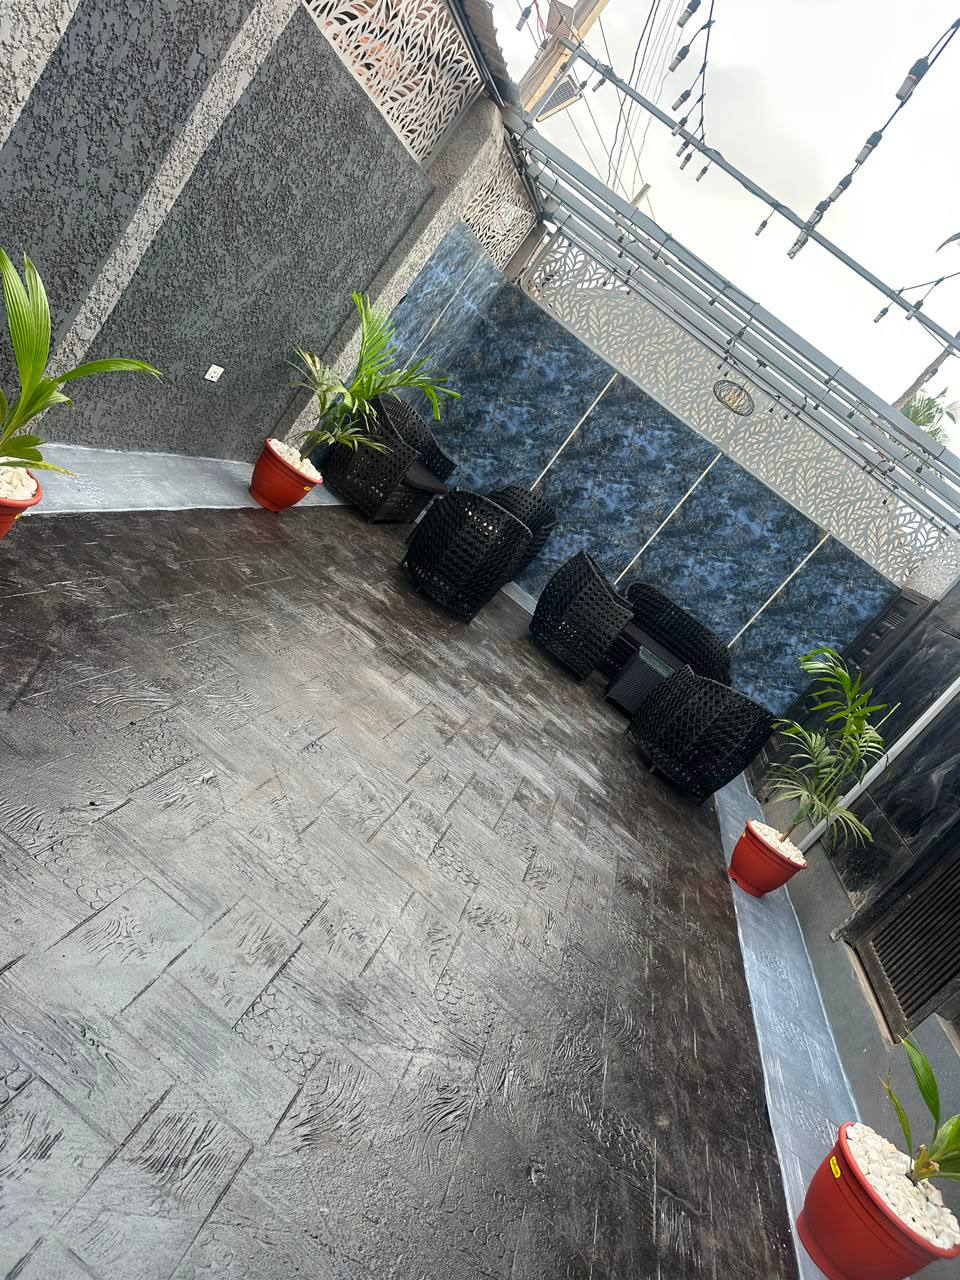
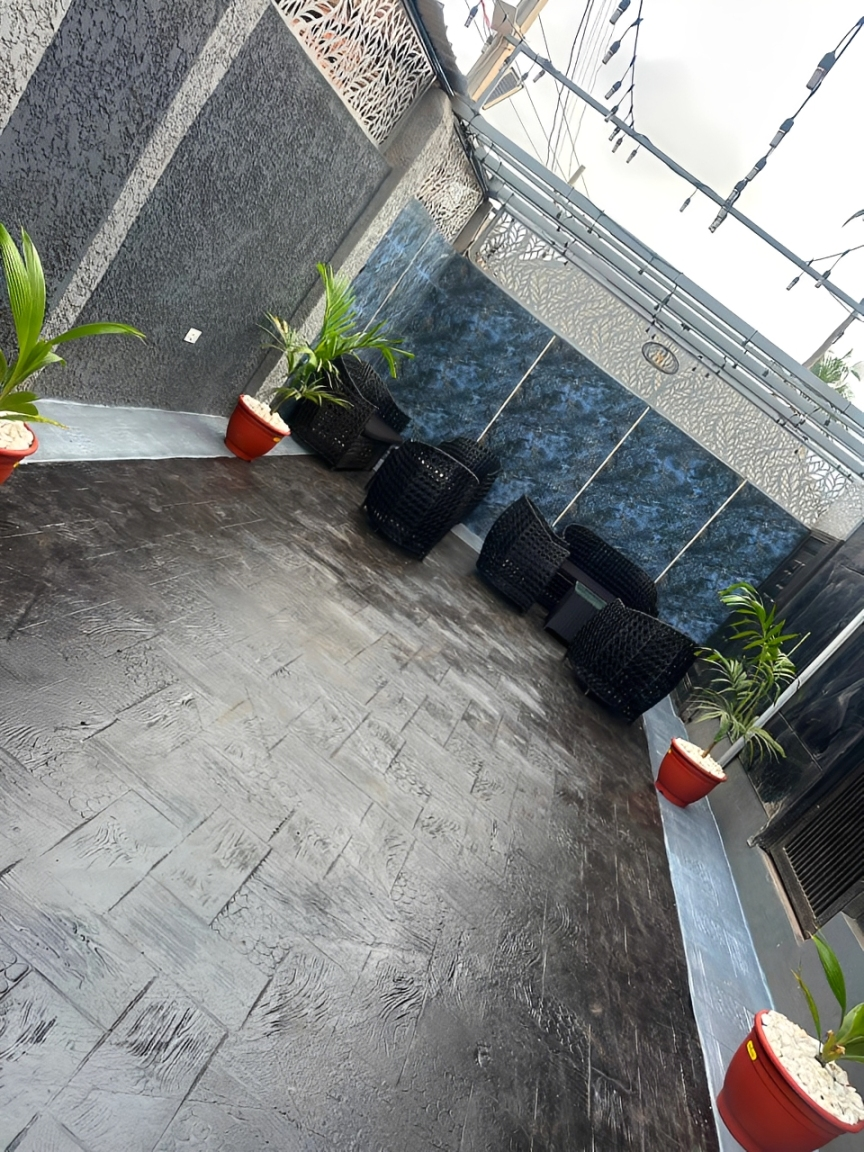
V6 small fix

diff --git a/components/Swiper/Swiper.tsx b/components/Swiper/Swiper.tsx
@@ -4,7 +4,7 @@ import React, { useRef, useState } from 'react';
 // Import Swiper React components
 import { Swiper, SwiperSlide } from 'swiper/react';
 import CustomButton from '@/components/kokonutui/CustomButton/CustomButton'
-import InlineInfiniteScroll from '@/components/InlineScroll/InlineInfiniteScroll'
+// import InlineInfiniteScroll from '@/components/InlineScroll/InlineInfiniteScroll'
 
 // Import Swiper styles
 import 'swiper/css';
@@ -46,18 +46,18 @@ export default function HeroSwiper() {
                 style={{ backgroundImage: "url('/images/hero1.webp')" }}
                 >
                 <div className="text-center">
-                    <p className="font-medium mt-7 mb-8 text-xs uppercase">• Exclusive Lounge and Bar •</p>
+                    <p className="font-semibold mt-7 mb-8 text-xs uppercase border rounded-full w-fit mx-auto py-2 px-6 backdrop-blur-xl bg-accent-foreground/60">• H100 Lounge and Bar •</p>
                     <h1 className="textDisplay tracking-tight text-5xl sm:text-6xl lg:text-7xl font-medium mb-6 text-balance uppercase">
                     H100 Lounge
                     <br />
                     Premium Vibe.
                     </h1>
             
-                    <p className="desc text-muted-foreground max-w-2xl! mx-auto text-pretty!">
+                    <p className="desc2 text-muted-foreground max-w-2xl! mx-auto text-pretty!">
                     Step into a refined atmosphere of great music, signature cocktails, and unforgettable moments—crafted for those who appreciate the finer side of nightlife.
                     </p>
             
-                    <div className="flex flex-col sm:flex-row items-center justify-center mt-12 pb-10 gap-5">
+                    <div className="flex flex-col sm:flex-row items-center justify-center mt-13 pb-10 max-sm:gap-6! gap-5">
                         <CustomButton 
                             text="View Price List" 
                             // hoverText="Explore Our Offerings" 
@@ -73,12 +73,6 @@ export default function HeroSwiper() {
                             className="min-w-43 hover:bg-foreground hover:text-background! py-6!"
                         />
                     </div>
-
-                    {/* Inline scroll */}
-                    {/* <div className="overflow-hidden">
-                        <p className='text-[15px] sm:text-base text-left text-[#fafafa]'>Experience the art of hospitality.</p>
-                        <InlineInfiniteScroll />
-                    </div> */}
                 </div>
             </div>
         </SwiperSlide>
@@ -89,18 +83,18 @@ export default function HeroSwiper() {
                 style={{ backgroundImage: "url('/images/Elegant Crystal Glass Celebration.png')" }}
                 >
                 <div className="text-center">
-                    <p className="font-medium mt-7 mb-8 text-xs uppercase">• Exclusive Lounge and Bar •</p>
+                    <p className="font-semibold mt-7 mb-8 text-xs uppercase border rounded-full w-fit mx-auto py-2 px-6 backdrop-blur-xl bg-accent-foreground/60">• H100 Lounge and Bar •</p>
                     <h1 className="textDisplay tracking-tight text-5xl sm:text-6xl lg:text-7xl font-medium mb-6 text-balance uppercase">
                     Relax, Refresh
                     <br />
                     And Repeat.
                     </h1>
             
-                    <p className="desc text-muted-foreground max-w-2xl mx-auto text-pretty">
+                    <p className="desc2 text-muted-foreground max-w-2xl mx-auto text-pretty">
                     From expertly mixed cocktails to smooth wines and premium spirits, our lounge is the perfect escape to unwind and connect.
                     </p>
             
-                    <div className="flex flex-col sm:flex-row items-center justify-center pb-10 mt-12 gap-5">
+                    <div className="flex flex-col sm:flex-row items-center justify-center pb-10 mt-13 max-sm:gap-6! gap-5">
                     <CustomButton 
                         text="View Price List" 
                         // hoverText="Explore Our Offerings" 
@@ -126,18 +120,18 @@ export default function HeroSwiper() {
                 style={{ backgroundImage: "url('/images/image1.png')" }}
                 >
                 <div className="text-center">
-                    <p className="font-medium mt-7 mb-8 text-xs uppercase">• Exclusive Lounge and Bar •</p>
-                    <h1 className="textDisplay tracking-tight text-5xl sm:text-6xl lg:text-7xl font-medium mb-6 text-balance uppercase">
+                    <p className="font-semibold mt-7 mb-8 text-xs uppercase border rounded-full w-fit mx-auto py-2 px-6 backdrop-blur-xl bg-accent-foreground/60">• H100 Lounge and Bar •</p>
+                    <h1 className="textDisplay tracking-tight text-5xl sm:text-6xl lg:text-7xl font-medium mb-6 text-pretty uppercase">
                     Good Drinks
                     <br />
                     & Great Energy
                     </h1>
             
-                    <p className="desc text-muted-foreground max-w-2xl mx-auto text-pretty">
+                    <p className="desc2 text-muted-foreground max-w-2xl mx-auto text-pretty">
                     Whether it’s a casual hangout or a night to remember, enjoy an atmosphere designed to keep the vibes flowing all day long.
                     </p>
             
-                    <div className="flex flex-col sm:flex-row items-center justify-center pb-10 mt-12 gap-5">
+                    <div className="flex flex-col sm:flex-row items-center justify-center pb-10 mt-13 max-sm:gap-6! gap-5">
                         <CustomButton 
                             text="View Price List" 
                             // hoverText="Explore Our Offerings" 

diff --git a/components/admin-nav.tsx b/components/admin-nav.tsx
@@ -9,9 +9,7 @@ import { ThemeToggle } from '@/components/theme-toggle'
 import { Sheet, SheetContent, SheetHeader, SheetTitle, SheetTrigger } from "@/components/ui/sheet"
 import { useState } from "react"
 import { cn } from "@/lib/utils"
-import { useTheme } from "next-themes"
-import logoLight from '@/public/icons/logo-white.png'
-import logoDark from '@/public/icons/logo-black.png'
+import { ThemeLogo } from '@/components/theme-logo'
 // import CustomButton from "./kokonutui/CustomButton/CustomButton"
 
 interface AdminNavProps {
@@ -21,7 +19,6 @@ interface AdminNavProps {
 }
 
 export function AdminNav({ user }: AdminNavProps) {
-  const { theme, setTheme } = useTheme()
   const pathname = usePathname()
   const router = useRouter()
   const supabase = createClient()
@@ -44,14 +41,7 @@ export function AdminNav({ user }: AdminNavProps) {
       <div className="mx-auto px-4 sm:px-6 lg:px-8">
         <div className="flex items-center justify-between h-16">
           <Link href="/" className="mt-2 inline-flex items-center gap-2">
-            {theme === "dark" ? (
-              <img src={logoLight.src} alt="H100 Lounge Logo" className="h-auto w-15 mx-auto" />
-            ) : 
-            theme === "light" ? (
-              <img src={logoDark.src} alt="H100 Lounge Logo" className="h-auto w-15 mx-auto" />
-            ) : (
-              <img src={logoLight.src} alt="H100 Lounge Logo" className="h-auto w-15 mx-auto" />
-            )}
+            <ThemeLogo className="w-15 mx-auto" />
           </Link>
           <div className="flex items-center gap-8">
 
@@ -98,14 +88,7 @@ export function AdminNav({ user }: AdminNavProps) {
                 <SheetHeader>
                   <SheetTitle className="text-left">
                     <Link href="/" className="mt-2 inline-flex items-center gap-2">
-                      {theme === "dark" ? (
-                        <img src={logoLight.src} alt="H100 Lounge Logo" className="h-auto w-14 mx-auto" />
-                      ) : 
-                      theme === "light" ? (
-                        <img src={logoDark.src} alt="H100 Lounge Logo" className="h-auto w-14 mx-auto" />
-                      ) : (
-                        <img src={logoLight.src} alt="H100 Lounge Logo" className="h-auto w-14 mx-auto" />
-                      )}
+                      <ThemeLogo className="w-14 mx-auto" />
                     </Link>
                   </SheetTitle>
                 </SheetHeader>

diff --git a/components/navigation.tsx b/components/navigation.tsx
@@ -2,7 +2,6 @@
 
 import Link from "next/link"
 import { usePathname } from "next/navigation"
-import { useTheme } from "next-themes"
 import { cn } from "@/lib/utils"
 // import { Sheet, SheetContent, SheetHeader, SheetTitle, SheetTrigger } from "@/components/ui/sheet"
 import { ArrowRight, Ruler, CheckCircle, Instagram, Mail, Crown } from "lucide-react"
@@ -11,8 +10,7 @@ import { motion, AnimatePresence } from "framer-motion";
 import { useEffect, useState } from "react"
 import CustomButton from '@/components/kokonutui/CustomButton/CustomButton'
 import { ThemeToggle } from '@/components/theme-toggle'
-import logoLight from '@/public/icons/logo-white.png'
-import logoDark from '@/public/icons/logo-black.png'
+import { ThemeLogo } from '@/components/theme-logo'
 
 const work = ["H100 LOUNGE AND BAR ✦ 100% RELAX, REFRESH AND REPEAT", "H100 LOUNGE AND BAR ✦ 100% RELAX, REFRESH AND REPEAT", "H100 LOUNGE AND BAR ✦ 100% RELAX, REFRESH AND REPEAT"];
 
@@ -26,14 +24,11 @@ const navLinks = [
 
 export function Navigation() {
   const pathname = usePathname()
-  const { theme, setTheme } = useTheme()
   // const [isMenuOpen, setIsMenuOpen] = useState(false)
     const [menuOpen, setMenuOpen] = useState(false);
   const [scrolled, setScrolled] = useState(false);
   const SCROLL_THRESHOLD = 70; // Adjust the scroll height at which header toggles to black
   const socialLinks = [
-  // { icon: Facebook, href: "https://facebook.com", label: "Facebook" },
-  // { icon: Tiktok, href: "https://tiktok.com/Fizcaps", label: "Tiktok" },
   { icon: Instagram, href: "https://instagram.com", label: "Instagram" },
   { icon: Mail, href: "mailto:h100lounge.bar@gmail.com", label: "Email;" },
   ]
@@ -69,12 +64,8 @@ export function Navigation() {
             {/* <MorphicNavbar /> */}
           </div>
 
-          <Link href="/" className="">
-            {theme === "light" ? (
-              <img src={logoDark.src} alt="H100 Lounge Logo" className="h-auto w-16" />
-            ) : (
-              <img src={logoLight.src} alt="H100 Lounge Logo" className="h-auto w-16" />
-            )}
+          <Link href="/" className="md:w-1/3! md:mx-auto flex justify-center items-center">
+            <ThemeLogo className="w-16" />
           </Link>
           
           <div className="hidden md:flex items-center gap-4">

diff --git a/components/surroundings-section.tsx b/components/surroundings-section.tsx
@@ -6,18 +6,12 @@ import { useRef } from "react"
 import { ArrowUpRight } from "lucide-react"
 import Link from "next/link"
 
-// import heroLounge from "@/public/images/hero1.webp"
-// import crystalCelebration from "@/public/images/Elegant Crystal Glass Celebration.png"
-// import drinkPour from "@/public/images/drink pouring from glass.avif"
-// import wineGlass from "@/public/images/Elegant Wine Glass.png"
-// import loungeEnergy from "@/public/images/image1.png"
-// import heroAmbiance from "@/public/images/hero3.png"
-import mainlounge from "@/public/images/environment 1.jpeg"
-import signaturebar from "@/public/images/Elegant Crystal Glass Celebration.png"
+import mainlounge from "@/public/images/environment 1.jpg"
+import signaturebar from "@/public/images/environment 2.jpg"
 import drinkPour from "@/public/images/drink pouring from glass.avif"
 import wineGlass from "@/public/images/Elegant Wine Glass.png"
-import loungeEnergy from "@/public/images/environment 3.jpeg"
-import heroAmbiance from "@/public/images/environment 2.jpeg"
+import loungeEnergy from "@/public/images/environment 3.jpg"
+import heroAmbiance from "@/public/images/environment 4.jpg"
 
 type Space = {
   title: string
@@ -141,7 +135,7 @@ export function SurroundingsSection() {
           className="flex flex-col lg:flex-row lg:items-end lg:justify-between gap-8 mb-14 md:mb-16"
         >
           <div className="max-w-2xl">
-            <span className="inline-block text-base uppercase font-semibold tracking-wide text-accent mb-3">
+            <span className="inline-block text-sm uppercase font-semibold tracking-wide text-muted-foreground mb-3">
               Our Surroundings ✦
             </span>
             <h2

diff --git a/app/admin/login/page.tsx b/app/admin/login/page.tsx
@@ -10,12 +10,9 @@ import { Card, CardContent, CardDescription, CardHeader, CardTitle } from "@/com
 import { Input } from "@/components/ui/input"
 import { Label } from "@/components/ui/label"
 import Link from "next/link"
-import { useTheme } from "next-themes"
-import logoLight from '@/public/icons/logo-white.png'
-import logoDark from '@/public/icons/logo-black.png'
+import { ThemeLogo } from '@/components/theme-logo'
 
 export default function AdminLoginPage() {
-  const { theme, setTheme } = useTheme()
   const [email, setEmail] = useState("")
   const [password, setPassword] = useState("")
   const [error, setError] = useState<string | null>(null)
@@ -57,14 +54,7 @@ export default function AdminLoginPage() {
       <div className="w-full max-w-[410px]">
         <div className="mb-6 text-center">
           <Link href="/" className="mt-2 inline-flex items-center gap-2">
-            {theme === "dark" ? (
-              <img src={logoLight.src} alt="H100 Lounge Logo" className="h-auto w-15 mx-auto" />
-            ) : 
-            theme === "light" ? (
-              <img src={logoDark.src} alt="H100 Lounge Logo" className="h-auto w-15 mx-auto" />
-            ) : (
-              <img src={logoLight.src} alt="H100 Lounge Logo" className="h-auto w-15 mx-auto" />
-            )}
+            <ThemeLogo className="w-15 mx-auto" />
           </Link>
           <p className="text-sm text-muted-foreground mt-2">Admin Portal</p>
         </div>

diff --git a/app/admin/signup/page.tsx b/app/admin/signup/page.tsx
@@ -12,12 +12,9 @@ import Link from "next/link"
 import { AlertCircle } from "lucide-react"
 import { Alert, AlertDescription } from "@/components/ui/alert"
 import { signupAdmin } from "@/app/actions/auth"
-import { useTheme } from "next-themes"
-import logoLight from '@/public/icons/logo-white.png'
-import logoDark from '@/public/icons/logo-black.png'
+import { ThemeLogo } from '@/components/theme-logo'
 
 export default function AdminSignupPage() {
-  const { theme, setTheme } = useTheme()
   const [email, setEmail] = useState("")
   const [password, setPassword] = useState("")
   const [confirmPassword, setConfirmPassword] = useState("")
@@ -76,14 +73,7 @@ export default function AdminSignupPage() {
       <div className="w-full max-w-[450px]">
         <div className="mb-6 text-center">
           <Link href="/" className="mt-2 inline-flex items-center gap-2">
-            {theme === "dark" ? (
-              <img src={logoLight.src} alt="H100 Lounge Logo" className="h-auto w-15 mx-auto" />
-            ) : 
-            theme === "light" ? (
-              <img src={logoDark.src} alt="H100 Lounge Logo" className="h-auto w-15 mx-auto" />
-            ) : (
-              <img src={logoLight.src} alt="H100 Lounge Logo" className="h-auto w-15 mx-auto" />
-            )}
+            <ThemeLogo className="w-15 mx-auto" />
           </Link>
           <p className="text-sm text-muted-foreground mt-2">Admin Portal</p>
         </div>

diff --git a/app/admin/forgot-password/page.tsx b/app/admin/forgot-password/page.tsx
@@ -9,12 +9,9 @@ import { Input } from "@/components/ui/input"
 import { Label } from "@/components/ui/label"
 import Link from "next/link"
 import { CheckCircle2 } from "lucide-react"
-import { useTheme } from "next-themes"
-import logoLight from '@/public/icons/logo-white.png'
-import logoDark from '@/public/icons/logo-black.png'
+import { ThemeLogo } from '@/components/theme-logo'
 
 export default function ForgotPasswordPage() {
-  const { theme, setTheme } = useTheme()
   const [email, setEmail] = useState("")
   const [error, setError] = useState<string | null>(null)
   const [success, setSuccess] = useState(false)
@@ -44,14 +41,7 @@ export default function ForgotPasswordPage() {
       <div className="w-full max-w-sm">
         <div className="mb-6 text-center">
           <Link href="/" className="mt-2 inline-flex items-center gap-2">
-            {theme === "dark" ? (
-              <img src={logoLight.src} alt="H100 Lounge Logo" className="h-auto w-16 mx-auto" />
-            ) : 
-            theme === "light" ? (
-              <img src={logoDark.src} alt="H100 Lounge Logo" className="h-auto w-16 mx-auto" />
-            ) : (
-              <img src={logoLight.src} alt="H100 Lounge Logo" className="h-auto w-16 mx-auto" />
-            )}
+            <ThemeLogo className="w-16 mx-auto" />
           </Link>
           <p className="text-sm text-muted-foreground mt-2">Admin Portal</p>
         </div>

diff --git a/components/footer.tsx b/components/footer.tsx
@@ -1,24 +1,16 @@
 'use client'
 
 import Link from "next/link"
-import { useTheme } from "next-themes"
-import logoLight from '@/public/icons/logo-white.png'
-import logoDark from '@/public/icons/logo-black.png'
+import { ThemeLogo } from '@/components/theme-logo'
 
 export function Footer() {
-  const { theme, setTheme } = useTheme()
-
   return (
     <footer className="bg-card/30 mt-10">
       <div className="container mx-auto px-4 sm:px-6 lg:px-8 py-12">
         <div className="grid md:grid-cols-4 gap-8">
           <div>
             <Link href="/" className="mb-4 inline-block">
-              {theme === "light" ? (
-                <img src={logoDark.src} alt="H100 Lounge Logo" className="h-auto w-15" />
-              ) : (
-                <img src={logoLight.src} alt="H100 Lounge Logo" className="h-auto w-15" />
-              )}
+              <ThemeLogo className="w-15" />
             </Link>
             <p className="text-muted-foreground text-base text-pretty">
               A sanctuary of sophistication where every day becomes an occasion. Relax, Refresh and Repeat.

diff --git a/components/WelcomeSection.tsx b/components/WelcomeSection.tsx
@@ -41,7 +41,7 @@ export function WelcomeSection() {
           <div className="max-w-3xl m-auto! space-y-6 flex flex-col justify-center items-center">
             <div className="inline-block">
               <span className="font-semibold! tracking-normal text-lg text-accent">
-                • Welcome to H100 👋🏽😊
+                Welcome to H100 Lounge & Bar 🪑🍷
               </span>
             </div>
             
@@ -55,7 +55,7 @@ export function WelcomeSection() {
                 enableBlur
                 baseRotation={4}
                 blurStrength={9}
-                textClassName="text-4xl/12! sm:text-5xl/16! lg:text-6xl/19! font tracking-tight text-pretty!"
+                textClassName="text-3xl/11! sm:text-4xl/13! lg:text-5xl/16! font-medium tracking-tight text-pretty! uppercase"
             >
               "H100 Lounge is more than a destination—it's an experience. Nestled in the heart of Abeokuta, 
               we've crafted a sanctuary where sophistication meets warmth, and every day becomes 

diff --git a/components/features-section.tsx b/components/features-section.tsx
@@ -11,7 +11,7 @@ export function FeaturesSection() {
     <section className="py-20 md:py-24 bg-[#fff] dark:bg-[#080101]">
         <div className="max-w-7xl mx-auto px-4 sm:px-6 lg:px-8">
           <div className="text-center mb-12 w-full overflow-hidden">
-            <h2 className="text-[38px] sm:text-5xl font-medium text-foreground mb-4 tracking-tighter">Experience<span className="font-serif font-medium italic text-accent">Excellence</span></h2>
+            <h2 className="text-[43px] sm:text-5xl font-medium text-foreground mb-4 tracking-tighter text-wrap">Experience<span className="font-serif font-medium italic text-accent">Excellence</span></h2>
             <p className="desc text-muted-foreground max-w-2xl mx-auto">
               Check out our Sophisticated Lounge Today, Best place for you to Relax, to Refresh and guaranteed to Repeat the Experience.
             </p>

diff --git a/components/theme-logo.tsx b/components/theme-logo.tsx
@@ -1,0 +1,16 @@
+import { cn } from "@/lib/utils"
+import logoLight from "@/public/icons/logo-white.png"
+import logoDark from "@/public/icons/logo-black.png"
+
+interface ThemeLogoProps {
+  className?: string
+}
+
+export function ThemeLogo({ className }: ThemeLogoProps) {
+  return (
+    <>
+      <img src={logoDark.src} alt="H100 Lounge Logo" className={cn("h-auto dark:hidden", className)} />
+      <img src={logoLight.src} alt="" aria-hidden="true" className={cn("hidden h-auto dark:block", className)} />
+    </>
+  )
+}

diff --git a/app/globals.css b/app/globals.css
@@ -191,6 +191,10 @@
     @apply text-foreground font-medium! max-w-xl! md:max-w-4xl! text-lg/6! md:text-xl!
   }
 
+  .desc2{
+    @apply text-foreground/80 font-medium! max-w-lg! md:max-w-4xl! text-lg/6.5! md:text-xl! mt-8 mb-14
+  }
+
     .marquee {
     user-select: none !important;
     mask-image: linear-gradient(to right, rgba(0, 0, 0, 0) 0%, rgb(0, 0, 0) 12.5%, rgb(0, 0, 0) 87.5%, rgba(0, 0, 0, 0) 100%)
